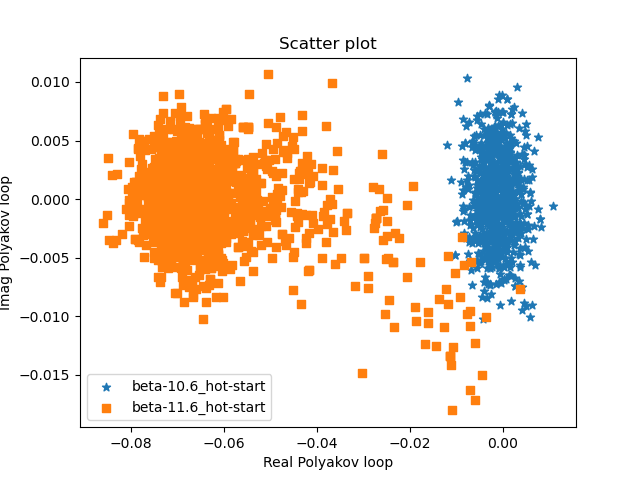
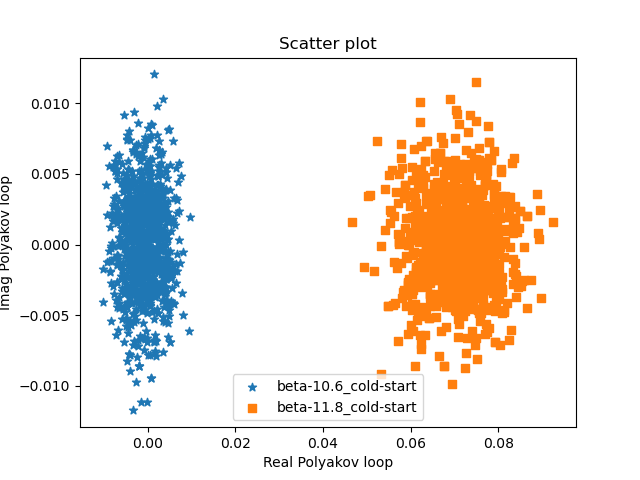
minor fixes

diff --git a/4_Monte_Carlo_analysis_sql_dbase/README.md b/4_Monte_Carlo_analysis_sql_dbase/README.md
@@ -20,13 +20,15 @@ Time_series variation of polyakov loop | Scatter plot of Polyakov loop  |
 :-------------:|:---------------:
 ![Time_series variation of polyakov loop](https://github.com/vmos1/Code_highlights/blob/main/4_Monte_Carlo_analysis_sql_dbase/images/time_series_polyakov.png) |![Scatter plot of Polyakov loop](https://github.com/vmos1/Code_highlights/blob/main/4_Monte_Carlo_analysis_sql_dbase/images/scatter_polyakov.png)
 
+In the left figure, we see the variation of the Polyakov loop for two values of $\beta$ on either side of the transition. For the larger $\beta$ value, there is larger transient region before the observable attains steady-state values. To the right, we see a scatter plot of the complex Polyakov loop along the real-imaginary axis. As we cross the phase transition, the observable moves away from the origin (0,0) 
+
 ### Repository information
 The Table below describes the important codes and their locations
 
 | Name | Description |
 | --- | ---|
 | [1_HMC_write_to_database.ipynb](https://github.com/vmos1/Code_highlights/blob/main/4_Monte_Carlo_analysis_sql_dbase/code/1_HMC_write_to_database.ipynb) | Code to write to sql database files |
-|[4_Monte_Carlo_analysis_sql_dbase/code/2_analysis.ipynb](https://github.com/vmos1/Code_highlights/blob/main/4_Monte_Carlo_analysis_sql_dbase/code/2_analysis.ipynb) | Notebook to visualize general behavior and Monte-Carlo time variation |
+| [4_Monte_Carlo_analysis_sql_dbase/code/2_analysis.ipynb](https://github.com/vmos1/Code_highlights/blob/main/4_Monte_Carlo_analysis_sql_dbase/code/2_analysis.ipynb) | Notebook to visualize general behavior and Monte-Carlo time variation |
 
 ## Summary: 
 The results show that we can identify the approximate location of the confinement transition and observe the behavior of observables in that region. In this region, we need to perform measurements to extract other physical quantities.
